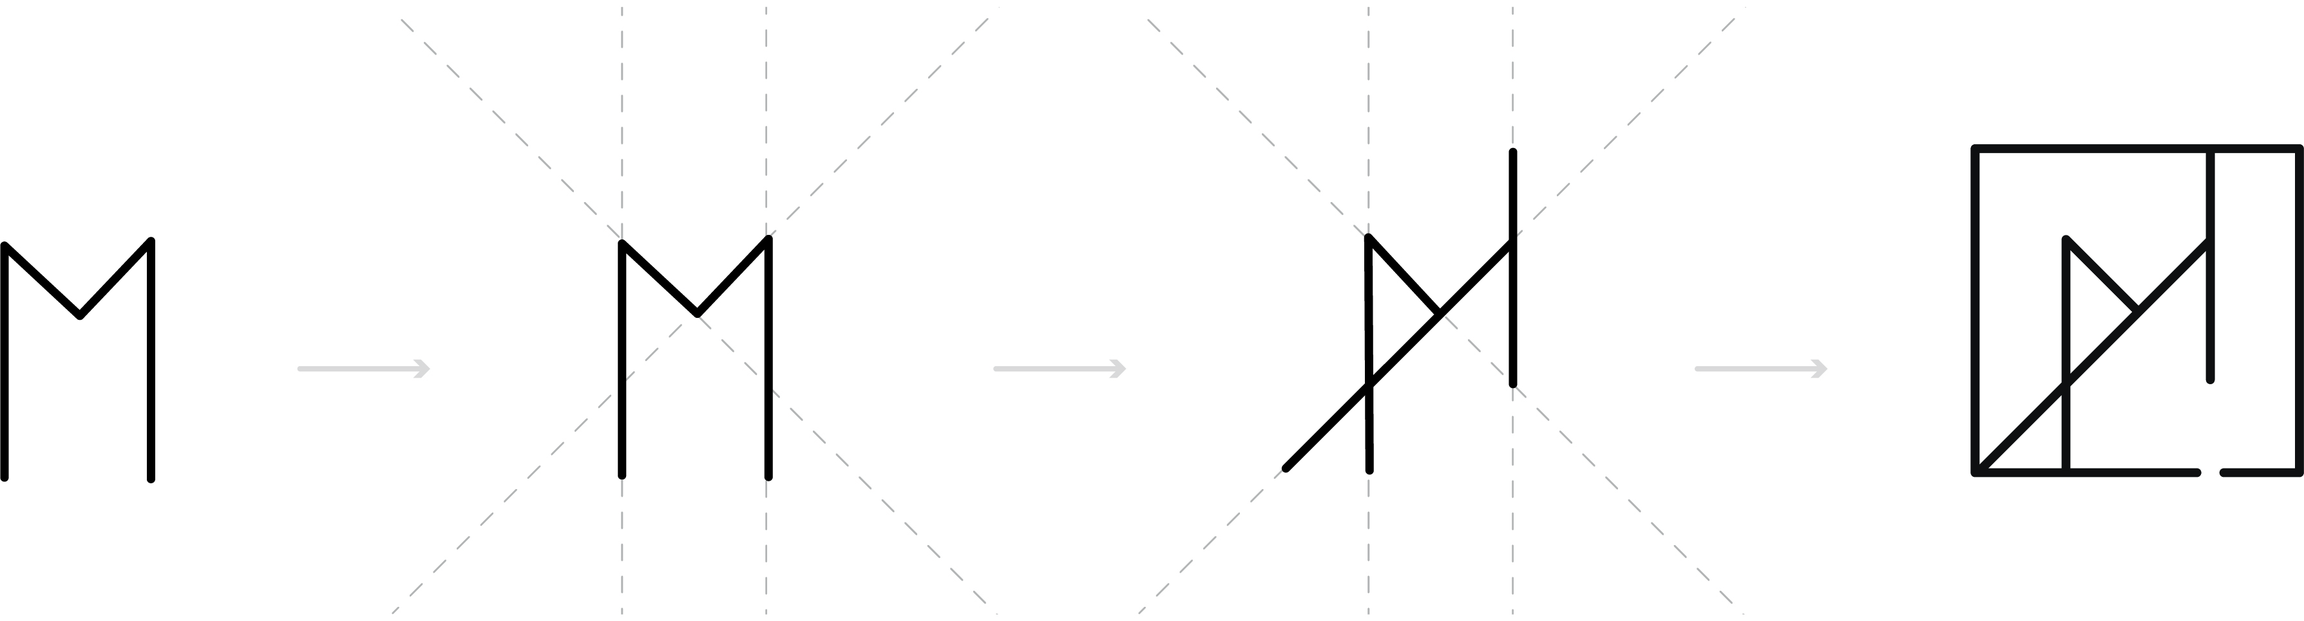
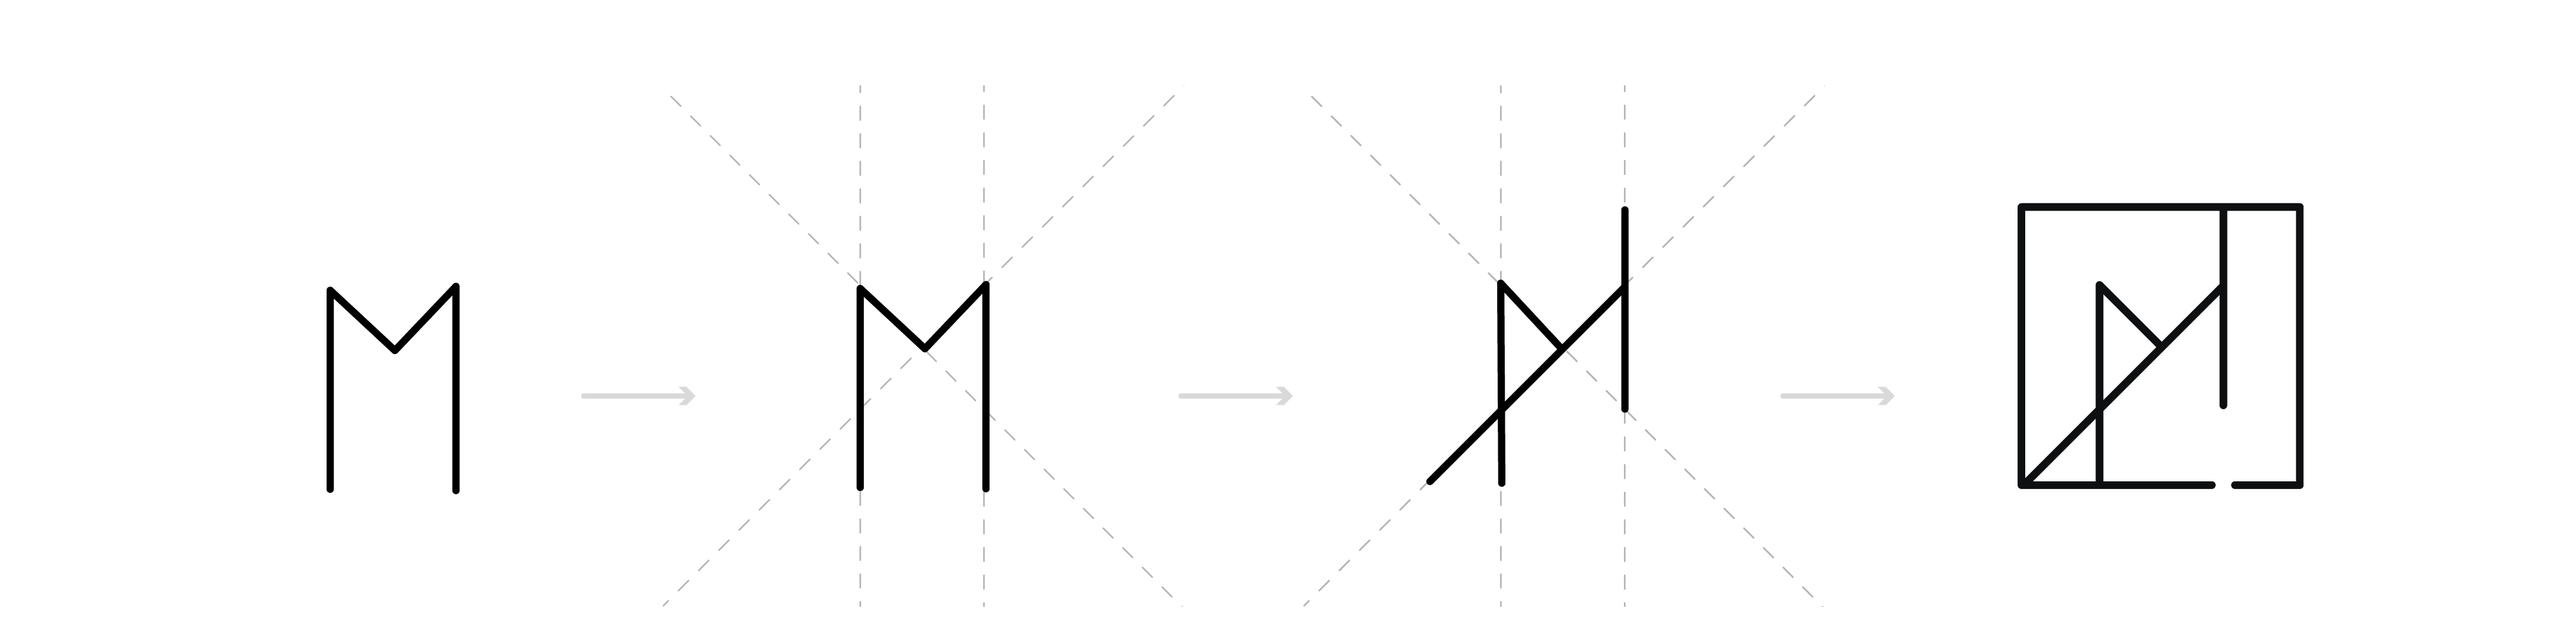
added chalange and process, added 1 img

diff --git a/makhaya.html b/makhaya.html
@@ -29,11 +29,11 @@ meta: Branding Case Study for an interior design company
         <h3 class="zetta island-1-2">Graphic Design: Logo & Brand Identity</h3>
 
         <h4 class="peta push-0 island-1-2">Challenge</h4>
-        <p itemprop="description" class="gutter-1-2"></p>
-        <p itemprop="description" class="gutter-1-2"></p>
+        <p itemprop="description" class="gutter-1-2">While doing my internship at McMillan, they had a small client come to them requesting a brand. The project was given to the other intern and I. We each had to create a brand concept for the client, and she would choose which one to use at the end.</p>
+        <p itemprop="description" class="gutter-1-2">Her business is called Makhaya Design. It is an interior design store/ small coffee shop. She also teaches interior design lessons. Some of the words she used to describe what she wanted where: clean and clear line, Bauhaus style, post-modern, industrial style.</p>
 
         <h4 class="peta push-0 island-1-2">Process</h4>
-        <p itemprop="description" class="gutter-1-2"></p>
+        <p itemprop="description" class="gutter-1-2">Based on her brief, I started looking on Pinterest for any inspiration, made a couple moodboards, did a ton of sketches, and ended up with two final concepts. I worked with an art director to improve my concepts and to get them ready to show the client. The concepts were presented and she ended up picking one of mine. The more minimalistic, industrial style one.</p>
 
         <h4 class="peta push-0 island-1-2">Sketches</h4>
         <img itemprop="image" class="img-flex push"src="{{site.baseurl}}/images/makhaya-sketches.jpg" alt="">
@@ -45,6 +45,7 @@ meta: Branding Case Study for an interior design company
         <p itemprop="description" class="gutter-1-2"></p>
         <p itemprop="description" class="gutter-1-2"></p>
 
+        <img itemprop="image" class="img-flex push"src="{{site.baseurl}}/images/makhaya-m-process.jpg" alt="">
         <img itemprop="image" class="img-flex"src="{{site.baseurl}}/images/makhaya-graphic.jpg" alt="">
         <img itemprop="image" class="img-flex"src="{{site.baseurl}}/images/makhaya-application.jpg" alt="">
       </div>
